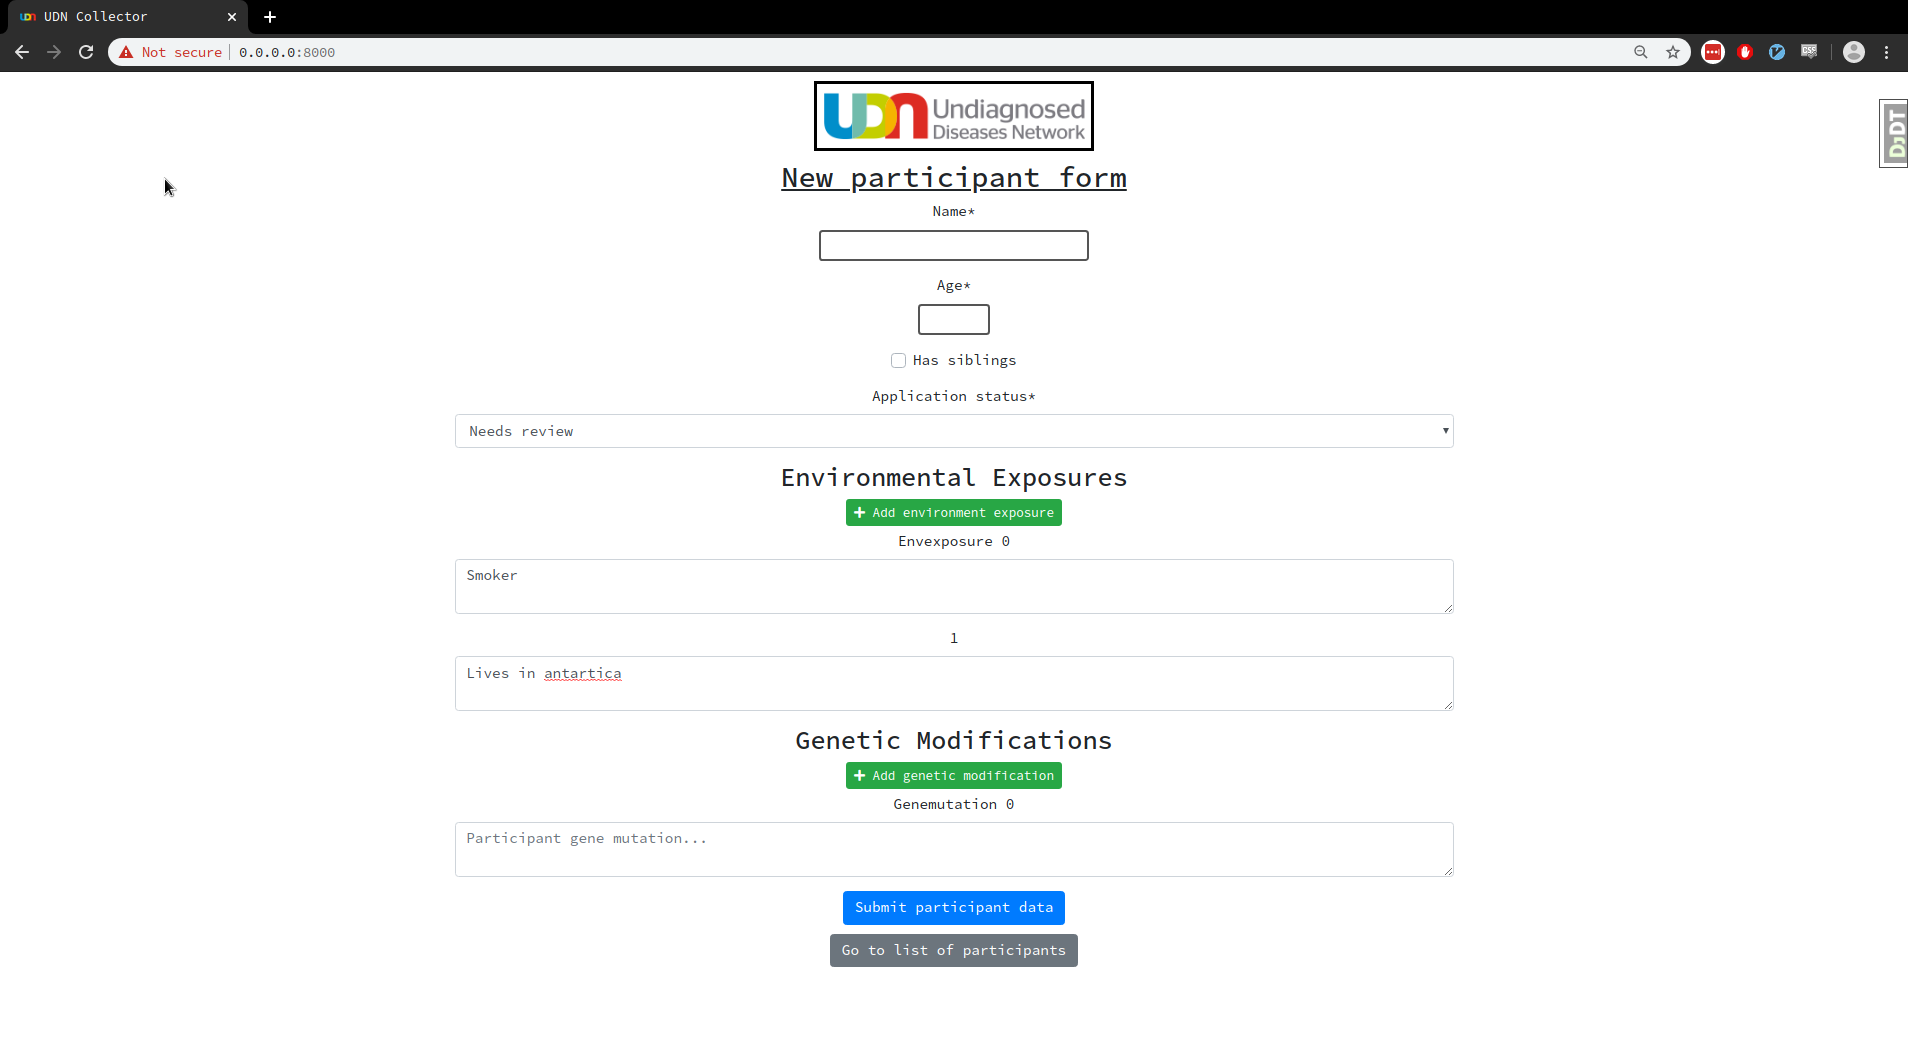
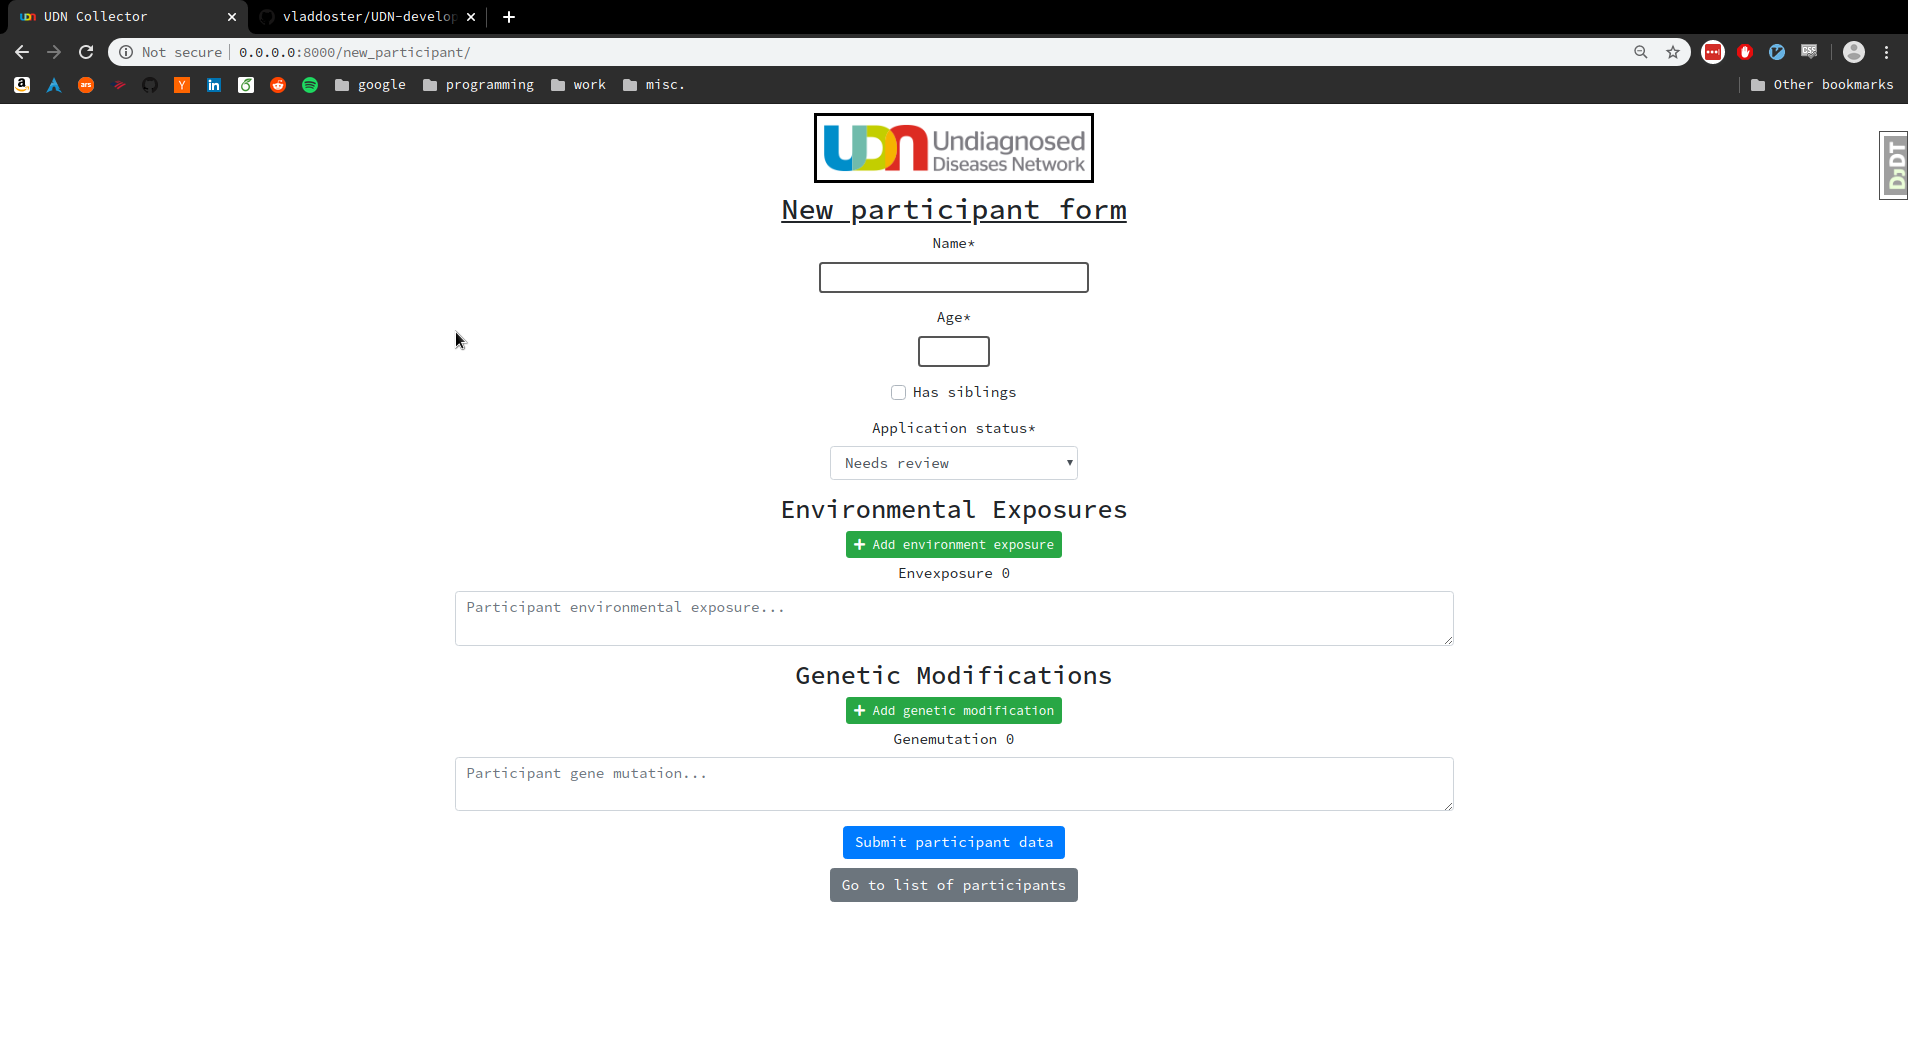
cleanup(new participant css): cleaned up size of select and updated docs

diff --git a/udn-info-collector/static/css/styles.css b/udn-info-collector/static/css/styles.css
@@ -49,6 +49,10 @@ input[type=text] {
     background-color: white;
 }
 
+.select{
+    width: 275px;
+}
+
 input[type=number] {
     height: 35px;
     width: 80px;
